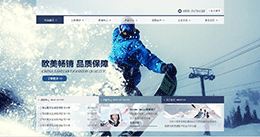
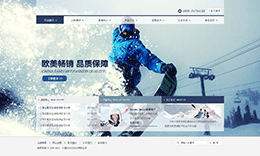
传悦第一次提交交

diff --git a/index.html b/index.html
@@ -27,6 +27,89 @@
 			</ul>
 		</div>
 	</div>	
-	<div class="banner"></div>
+	<div class="banner">
+		<div class="yinying">
+		  <div class="wenzi1 banxin"><a href="">网站首页>传悦案例</a></div>
+		</div>
+	</div>
+	<ul class="wenzi2 banxin">
+		<li class="first"><a href="">全部</a></li>
+		<li><a href="">网站建设</a></li>
+		<li><a href="">推广运营</a></li>
+		<li><a href="">品牌策划</a></li>
+		<li><a href="">网络全案</a></li>	
+	</ul>
+	<div class="clear"></div>
+	<div class="zhuye banxin">
+		<div class="item">
+			<a href=""><img src="images/1.png" alt=""></a>
+			<p class="wenzi3"><a href="">众德集团 网站建设</a></p>
+			<p class="wenzi4"><a href="">网站建设 品牌形象 整合营销 引导营销</a></p>
+		</div>
+		<div class="item">
+			<a href=""><img src="images/2.png" alt=""></a>
+			<p class="wenzi3"><a href="">众德集团 网站建设</a></p>
+			<p class="wenzi4"><a href="">网站建设 品牌形象 整合营销 引导营销</a></p>
+		</div>
+		<div class="item">
+			<a href=""><img src="images/3.png" alt=""></a>
+			<p class="wenzi3"><a href="">众德集团 网站建设</a></p>
+			<p class="wenzi4"><a href="">网站建设 品牌形象 整合营销 引导营销</a></p>
+		</div>
+		<div class="item last">
+			<a href=""><img src="images/4.png" alt=""></a>
+			<p class="wenzi3"><a href="">众德集团 网站建设</a></p>
+			<p class="wenzi4"><a href="">网站建设 品牌形象 整合营销 引导营销</a></p>
+		</div>
+		<div class="item">
+			<a href=""><img src="images/5.png" alt=""></a>
+			<p class="wenzi3"><a href="">众德集团 网站建设</a></p>
+			<p class="wenzi4"><a href="">网站建设 品牌形象 整合营销 引导营销</a></p>
+		</div>
+		<div class="item">
+			<a href=""><img src="images/6.png" alt=""></a>
+			<p class="wenzi3"><a href="">众德集团 网站建设</a></p>
+			<p class="wenzi4"><a href="">网站建设 品牌形象 整合营销 引导营销</a></p>
+		</div>
+		<div class="item">
+			<a href=""><img src="images/7.png" alt=""></a>
+			<p class="wenzi3"><a href="">众德集团 网站建设</a></p>
+			<p class="wenzi4"><a href="">网站建设 品牌形象 整合营销 引导营销</a></p>
+		</div>
+		<div class="item last">
+			<a href=""><img src="images/8.png" alt=""></a>
+			<p class="wenzi3"><a href="">众德集团 网站建设</a></p>
+			<p class="wenzi4"><a href="">网站建设 品牌形象 整合营销 引导营销</a></p>
+		</div>
+		<div class="item">
+			<a href=""><img src="images/9.png" alt=""></a>
+			<p class="wenzi3"><a href="">众德集团 网站建设</a></p>
+			<p class="wenzi4"><a href="">网站建设 品牌形象 整合营销 引导营销</a></p>
+		</div>
+		<div class="item">
+			<a href=""><img src="images/10.png" alt=""></a>
+			<p class="wenzi3"><a href="">众德集团 网站建设</a></p>
+			<p class="wenzi4"><a href="">网站建设 品牌形象 整合营销 引导营销</a></p>
+		</div>
+		<div class="item">
+			<a href=""><img src="images/11.png" alt=""></a>
+			<p class="wenzi3"><a href="">众德集团 网站建设</a></p>
+			<p class="wenzi4"><a href="">网站建设 品牌形象 整合营销 引导营销</a></p>
+		</div>
+		<div class="item last">
+			<a href=""><img src="images/12.png" alt=""></a>
+			<p class="wenzi3"><a href="">众德集团 网站建设</a></p>
+			<p class="wenzi4"><a href="">网站建设 品牌形象 整合营销 引导营销</a></p>
+		</div>
+		<div class="clear"></div>
+	</div>
+	<ul class="yema banxin">
+		<li><a href="">&lt;</li>
+		<li><a href="">1</li>
+		<li><a href="">2</li>
+		<li><a href="">3</li>
+		<li><a href="">4</li>
+		<li><a href="">&gt;</li>
+	</ul>
 </body>
 </html>

diff --git a/index.css b/index.css
@@ -3,7 +3,9 @@ li{list-style:none;}
 a{text-decoration:none;
 	color:#757575;
 }
-body{font-size:14px;}
+body{
+	background-color:#f0f1f1;
+}
 .banxin{
 	width:1100px;
 	margin:0 auto;
@@ -23,7 +25,10 @@ body{font-size:14px;}
 	background-color:#dd4012;
 }
 .top-left a{
-	padding:15px 15px;
+	display:block;
+	width:88px;
+	height:48px;
+	text-align:center;
 }
 .top-right{
 	line-height:48px;
@@ -44,7 +49,7 @@ body{font-size:14px;}
 	background-image:url(images/qq.png);
 	background-repeat:no-repeat;
 	width:38px;
-	height:38px;
+	height:18px;
 	margin-top:15px;
 	float:left;
 	margin-left:20px;
@@ -53,7 +58,7 @@ body{font-size:14px;}
 	background-image:url(images/weibo.png);
 	background-repeat:no-repeat;
 	width:38px;
-	height:38px;
+	height:18px;
 	margin-top:15px;
 	float:left;
 	
@@ -61,7 +66,7 @@ body{font-size:14px;}
 .top-right .weixin a{
 	background-image:url(images/weixin.png);
 	background-repeat:no-repeat;
-	width:20px;
+	width:23px;
 	height:18px;
 	margin-top:15px;
 	float:left;	
@@ -93,7 +98,92 @@ body{font-size:14px;}
 }
 .banner{
 	background-image:url(images/beijing.png);
-	height:220px;
-	background-size:100%;
+	height:30px;
+	padding-top:150px;
 	background-repeat:no-repeat;
+}
+.yinying{
+	background-color:rgba(0,0,0,0.4);
+	height:30px;
+	line-height:30px;	
+}
+.wenzi1{
+	font-size:14px;
+	color:#757575;	
+}
+.wenzi2 li{
+	float:left;
+	margin-right:15px;
+	line-height:30px;
+	margin-top:25px;
+	margin-bottom:25px;
+	background-color:#fff;
+}
+.clear{
+	clear:both;
+}
+.wenzi2 .first a{
+	color:#fff;
+}
+.wenzi2 a:hover{
+	color:#fff;
+	background-color:#757575;
+}
+.wenzi2 a{
+	display:block;
+	width:78px;
+	height:26px;
+	text-align:center;
+}
+.wenzi2 .first{
+	background-color:#757575;
+}
+.item{
+	float:left;
+	width:252px;
+	border:1px solid #e3e3e3;
+	padding:3px;
+	margin-right:20px;
+	margin-bottom:35px;
+	height:230px;
+	background-color:#fff;
+	overflow:hidden;
+}
+.item img{
+		width:100%;
+}
+.item:hover{
+	border:1px solid #dd4012;
+
+}
+.last{
+	margin-right:0px;
+}
+
+.zhuye .wenzi3{
+	font-size:18px;
+	color:red;
+	margin-bottom: 10px;
+	text-align:center;
+}
+.zhuye .wenzi4{
+	font-size:14px;
+	color:#757575;
+	text-align:center;
+}
+. a:hover{
+	color:#9d9d9d;
+}
+.yema li{
+	float:left;
+}
+.yema li a{
+	text-align: center;
+	display: block;
+	width:36px;
+	height:36px;
+}
+.yema {
+	overflow:hidden;
+	
 }
